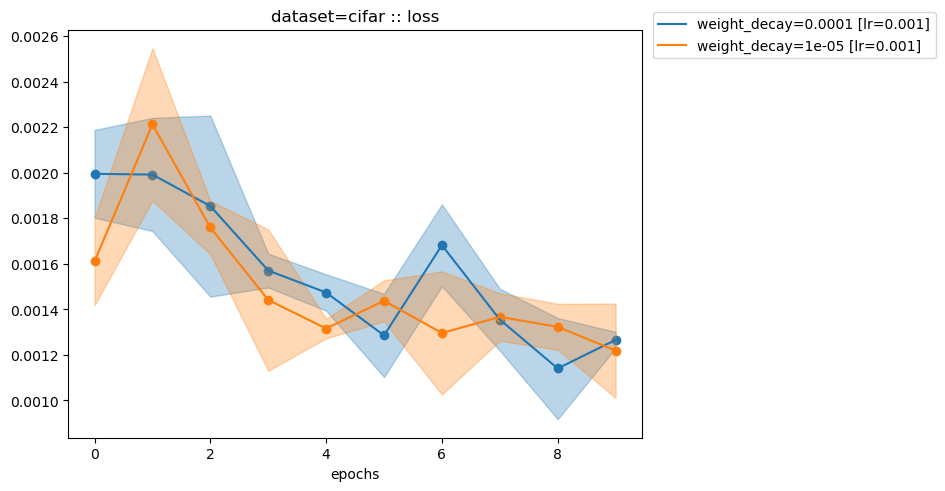
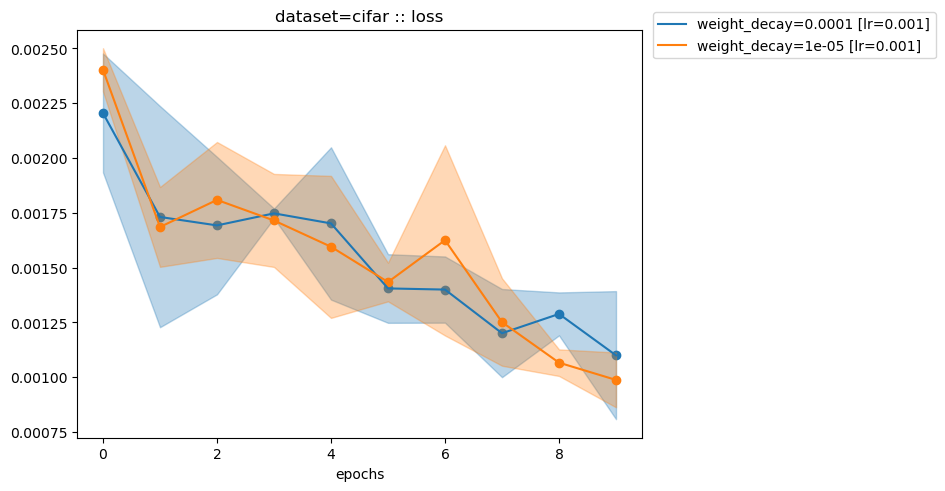
Fix crash reporting and add checkpointing

diff --git a/tuning.py b/tuning.py
@@ -22,12 +22,12 @@ def iqm(scores: List[float]):
     uppercut = n_obs - lowercut
 
     scores = np.partition(scores, (lowercut, uppercut - 1))
-    return np.mean(scores[lowercut : uppercut])
+    return np.mean(scores[lowercut:uppercut])
 
 
 # https://arxiv.org/abs/2108.13264 IQM with bootstrapped confidence intervals, with
 # support for NaN results (e.g. incomplete trials)
-def bootstrapped_iqm(runs: np.ndarray, iters=1000, alpha=0.9, seed=42):
+def bootstrapped_iqm(runs: np.ndarray, iters=1000, alpha=0.95, seed=42):
     assert 0 < alpha < 1
 
     rng = np.random.default_rng(seed)
@@ -72,10 +72,15 @@ class TrialConfig:
     def __init__(self, spec, cfg_dict):
         vals_by_type = defaultdict(list)
         for key in cfg_dict:
-            assert key in spec
+            assert key in spec, f"Unexpected key: {key}"
         for key in spec:
             assert key in cfg_dict, f"{key} not found in config={cfg_dict}"
-            assert spec[key] in ("task", "science", "nuisance", "id")
+            assert spec[key] in (
+                "task",
+                "science",
+                "nuisance",
+                "id",
+            ), f"Unexpected parameter type: {spec[key]}"
             vals_by_type[spec[key]].append(cfg_dict[key])
 
         self.cfg_dict = cfg_dict
@@ -86,7 +91,9 @@ class TrialConfig:
         self.id_key = tuple(vals_by_type["id"])
 
     def __hash__(self):
-        return hash((self.task_key, self.science_key, self.nuisance_key, self.id_key))
+        return hash(
+            (self.task_key, self.science_key, self.nuisance_key, self.id_key)
+        )
 
     def __eq__(self, other):
         if not isinstance(other, TrialConfig):
@@ -101,7 +108,7 @@ class TrialConfig:
 
 
 class ResultReporter:
-    def __init__(self, spec, metric, mode):
+    def __init__(self, spec, metric, mode, plot_dir, ckpt_filename):
         self.spec = spec
         self.comparison_metric = metric
         self.mode = mode
@@ -119,23 +126,38 @@ class ResultReporter:
         )
 
         self.cleared_plots = False
+        self.plot_dir = plot_dir
+        self.ckpt_filename = ckpt_filename
 
-    def add_result(self, config: TrialConfig, result: Logger):
+    def add_result(
+        self, config: TrialConfig, result: Logger, plot=True, checkpoint=True
+    ):
         self.results[config] = result
-        self.plot_results()
+        if plot:
+            self.plot_results()
+        if checkpoint:
+            self.checkpoint()
 
-    def set_done(self, config: TrialConfig):
+    def is_done(self, config: TrialConfig):
+        return config in self.finished
+
+    def set_done(self, config: TrialConfig, plot=True, checkpoint=True):
         self.finished.add(config)
-        self.plot_results()
+        if plot:
+            self.plot_results()
+        if checkpoint:
+            self.checkpoint()
 
-    def plot_results(self, directory_name="tuner_plots"):
+    def plot_results(self, plot_dir=None):
         matplotlib.use("Agg")
 
         metrics = list(self.results.values())[0].data.keys()
-        if not self.cleared_plots and os.path.exists(directory_name):
+        if plot_dir is None:
+            plot_dir = self.plot_dir
+        if not self.cleared_plots and os.path.exists(plot_dir):
             self.cleared_plots = True
-            shutil.rmtree(directory_name)
-        os.makedirs(directory_name, exist_ok=True)
+            shutil.rmtree(plot_dir)
+        os.makedirs(plot_dir, exist_ok=True)
 
         for metric in metrics:
             for task in set(config.task_key for config in self.results.keys()):
@@ -147,10 +169,13 @@ class ResultReporter:
                     f"{k}={v:.2g}" if isinstance(v, float) else f"{k}={v}"
                     for k, v in zip(self.task_metrics, task)
                 )
+                filename = str(metric)
                 if task_title:
                     title = f"{task_title} :: {metric}"
+                    filename = os.path.join(task_title, filename)
                 else:
                     title = metric
+                filename = os.path.join(plot_dir, filename)
 
                 for config in self.results.keys():
                     if config.task_key == task and config not in self.finished:
@@ -169,15 +194,21 @@ class ResultReporter:
                     nuisance_scores = defaultdict(list)
 
                     for config, result in self.results.items():
-                        if config.task_key != task or config.science_key != science_key:
+                        if (
+                            config.task_key != task
+                            or config.science_key != science_key
+                        ):
                             continue
                         nuisance_scores[config.nuisance_key].append(
                             result.data[self.comparison_metric][-1]
                         )
 
-                    nuisance_scores = {k: iqm(v) for k, v in nuisance_scores.items()}
+                    nuisance_scores = {
+                        k: iqm(v) for k, v in nuisance_scores.items()
+                    }
                     best_nuisance = (max if self.mode == "max" else min)(
-                        nuisance_scores.keys(), key=lambda k: nuisance_scores[k]
+                        nuisance_scores.keys(),
+                        key=lambda k: nuisance_scores[k],
                     )
 
                     best_nuisance_results = []
@@ -219,42 +250,55 @@ class ResultReporter:
                         label=label,
                     )
                     ax.fill_between(
-                        np.arange(len(mid)), lo, hi, color=line.get_color(), alpha=0.3
+                        np.arange(len(mid)),
+                        lo,
+                        hi,
+                        color=line.get_color(),
+                        alpha=0.3,
                     )
 
                     if len(mid) <= 100:  # add thick circles for clarity
-                        ax.scatter(np.arange(len(mid)), mid, color=line.get_color())
+                        ax.scatter(
+                            np.arange(len(mid)), mid, color=line.get_color()
+                        )
 
                 if self.science_metrics or self.nuisance_metrics:
                     fig.legend(bbox_to_anchor=(1, 1), loc="upper left")
 
-                path = os.path.join(
-                    directory_name, *[s.replace(" ", "_") for s in title.split(" :: ")]
-                )
-                dirname, filename = os.path.split(path)
+                dirname, _ = os.path.split(filename)
                 os.makedirs(dirname, exist_ok=True)
-                fig.savefig(path, bbox_inches="tight")
-                if not path.endswith("(in_progress)") and os.path.exists(
-                    path + "_(in_progress).png"
-                ):
-                    os.remove(path + "_(in_progress).png")
+                fig.savefig(filename, bbox_inches="tight")
                 plt.close(fig)
 
-    def serializable(self):
-        return {
-            "spec": self.spec,
-            "metric": self.comparison_metric,
-            "mode": self.mode,
-            "results": self.results,
-            "finished": self.finished,
-        }
+    def checkpoint(self, filename=None):
+        with open(
+            self.ckpt_filename if filename is None else filename, "wb"
+        ) as f:
+            pickle.dump(
+                {
+                    "spec": self.spec,
+                    "metric": self.comparison_metric,
+                    "mode": self.mode,
+                    "results": self.results,
+                    "finished": self.finished,
+                },
+                f,
+            )
 
 
 remote_reporter = ray.remote(ResultReporter)
 
 
 class Tuner:
-    def __init__(self, spec, trial_fn: Callable, metric: str, mode="max"):
+    def __init__(
+        self,
+        spec,
+        trial_fn: Callable,
+        metric: str,
+        mode="max",
+        plot_dir="tuner_plots",
+        ckpt_filename="tuner.ckpt",
+    ):
         for k, v in spec.items():
             assert v in ("task", "science", "nuisance", "id")
         assert inspect.isgeneratorfunction(trial_fn)
@@ -265,37 +309,46 @@ class Tuner:
         self.mode = mode
 
         def run_fn(config, reporter):
+            if ray.get(reporter.is_done.remote(config)):
+                return
+
             try:
-                handles = []
                 for result in trial_fn(config.cfg_dict):
-                    handles.append(reporter.add_result.remote(config, result))
-                ray.get(handles)
+                    ray.get(reporter.add_result.remote(config, result))
             except Exception as e:
-                print(f"Trial config={config_name(config)} failed with exception {e}")
+                print(
+                    f"Trial config={config_name(config.cfg_dict)} failed with "
+                    f"exception {e}"
+                )
             finally:
                 ray.get(reporter.set_done.remote(config))
 
-        self.reporter = remote_reporter.remote(self.spec, self.metric, self.mode)
+        self.reporter = remote_reporter.remote(
+            self.spec, self.metric, self.mode, plot_dir, ckpt_filename
+        )
         self.run_fn = ray.remote(run_fn)
         self.remote_args = []
 
     def add(self, cfg_dict):
-        self.remote_args.append((TrialConfig(self.spec, cfg_dict), self.reporter))
+        self.remote_args.append(
+            (TrialConfig(self.spec, cfg_dict), self.reporter)
+        )
 
     def run(self):
         ray.get([self.run_fn.remote(*args) for args in self.remote_args])
 
-    def save_results(self, filename):
-        with open(filename, "wb") as f:
-            pickle.dump(ray.get(self.reporter.serializable.remote()), f)
-
     @staticmethod
-    def load_results(filename) -> ResultReporter:
+    def load_checkpoint(trial_fn, filename, **kwargs):
         with open(filename, "rb") as f:
-            data = pickle.load(f)
-            ret = ResultReporter(
-                spec=data["spec"], metric=data["metric"], mode=data["mode"]
-            )
-            ret.results = data["results"]
-            ret.finished = data["finished"]
-            return ret
+            checkpoint = pickle.load(f)
+
+        tuner = Tuner(
+            checkpoint["spec"],
+            trial_fn,
+            checkpoint["metric"],
+            checkpoint["mode"],
+            **kwargs,
+        )
+        tuner.reporter.results = checkpoint["results"]
+        tuner.reporter.finished = checkpoint["finished"]
+        return tuner

diff --git a/tuner_example.py b/tuner_example.py
@@ -9,8 +9,8 @@ from tuning import Tuner, config_name
 def trial(config):
     logger = Logger()
     for t in range(10):
-        time.sleep(1)
-        # fake data for example
+        time.sleep(0.5)
+        # generate random results
         logger.log(loss=config["lr"] * (2 - t / 10) * np.random.normal(1, 0.2))
         logger.generate_plots("plotgen/" + config_name(config))
 
@@ -19,7 +19,12 @@ def trial(config):
 
 # defining experiment config
 tuner = Tuner(
-    {"dataset": "task", "weight_decay": "science", "lr": "nuisance", "trial_idx": "id"},
+    {
+        "dataset": "task",
+        "weight_decay": "science",
+        "lr": "nuisance",
+        "trial_idx": "id",
+    },
     trial_fn=trial,
     metric="loss",
     mode="min",
@@ -42,6 +47,5 @@ for dataset in ("cifar", "imagenet"):
 # running trials with ray-core
 tuner.run()
 
-# example of saving/loading tuner
-tuner.save_results("tuner.pickle")
-tuner_2 = Tuner.load_results("tuner.pickle")
+# example of loading checkpoint
+tuner_2 = Tuner.load_checkpoint(trial_fn=trial, filename="tuner.ckpt")

diff --git a/logger.py b/logger.py
@@ -99,7 +99,11 @@ class Logger:
             if name in self.std_data:
                 stds = np.array(self.std_data[name])
                 ax.fill_between(
-                    x, values - stds, values + stds, color=line.get_color(), alpha=0.3
+                    x,
+                    values - stds,
+                    values + stds,
+                    color=line.get_color(),
+                    alpha=0.3,
                 )
 
             if len(values) <= 100:  # add thick circles for clarity

diff --git a/README.md b/README.md
@@ -26,7 +26,5 @@ Results for each unique task configuration are reported in a separate directory.
 
 Trials are run in parallel using
 [ray-core](https://docs.ray.io/en/latest/ray-core/walkthrough.html).
-Dependencies are only ray-core, numpy, and matplotlib. Trials should yield Logger
+Trials should yield Logger
 objects, generator-style. See `tuner_example.py` for example usage.
-
-I do not plan on working on this codebase further.
